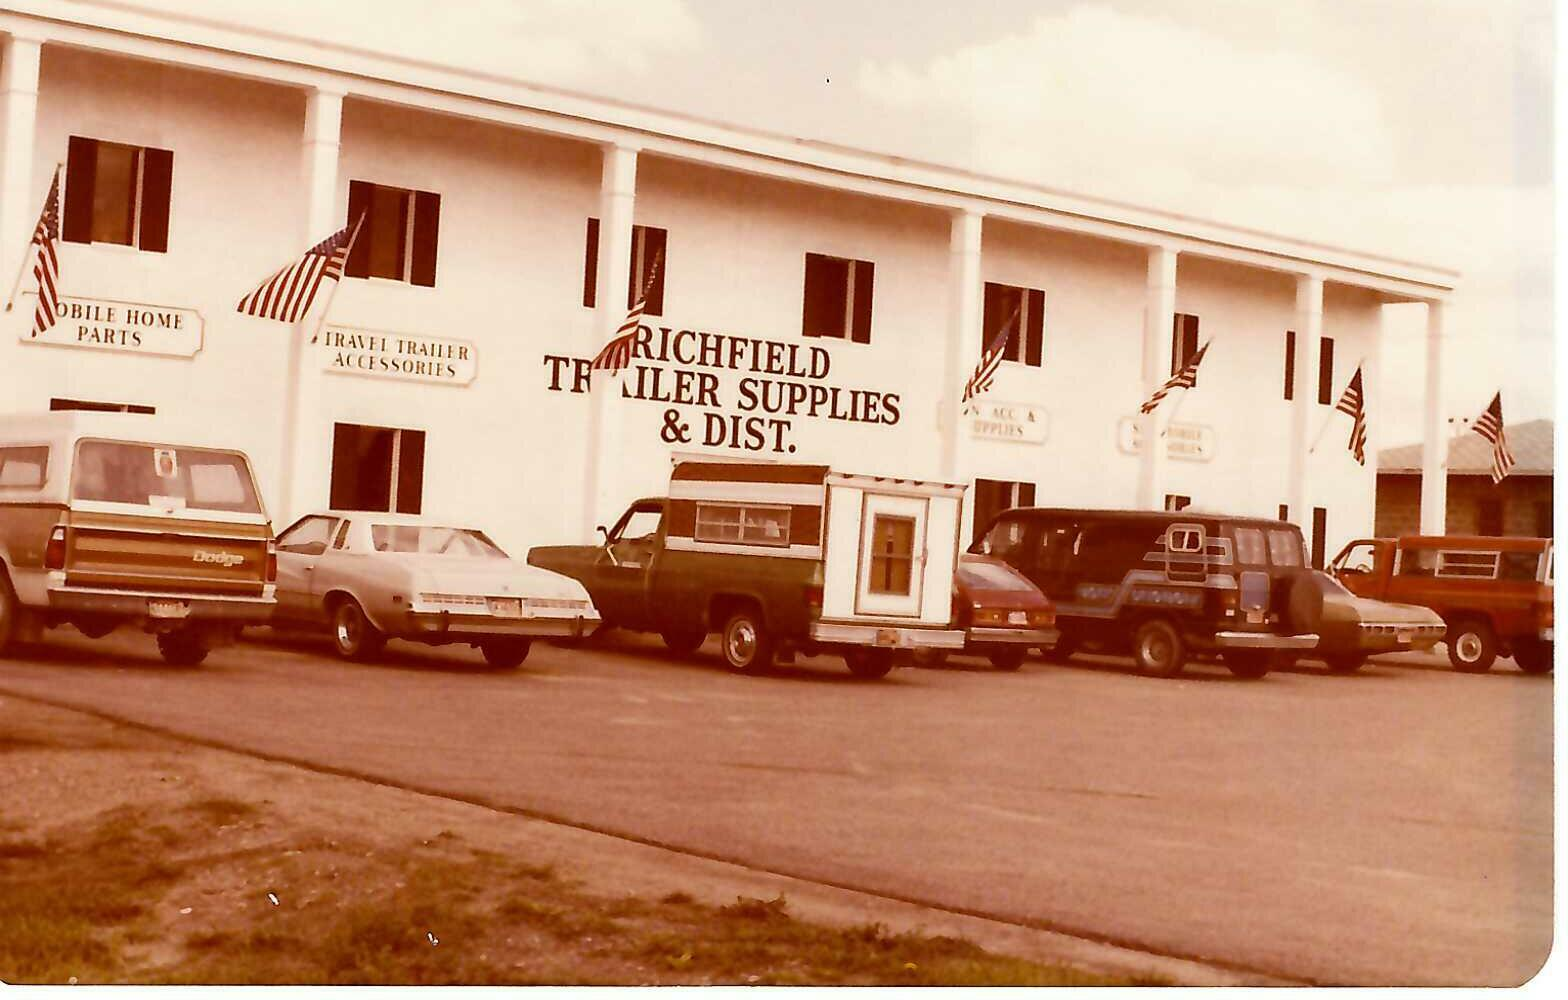
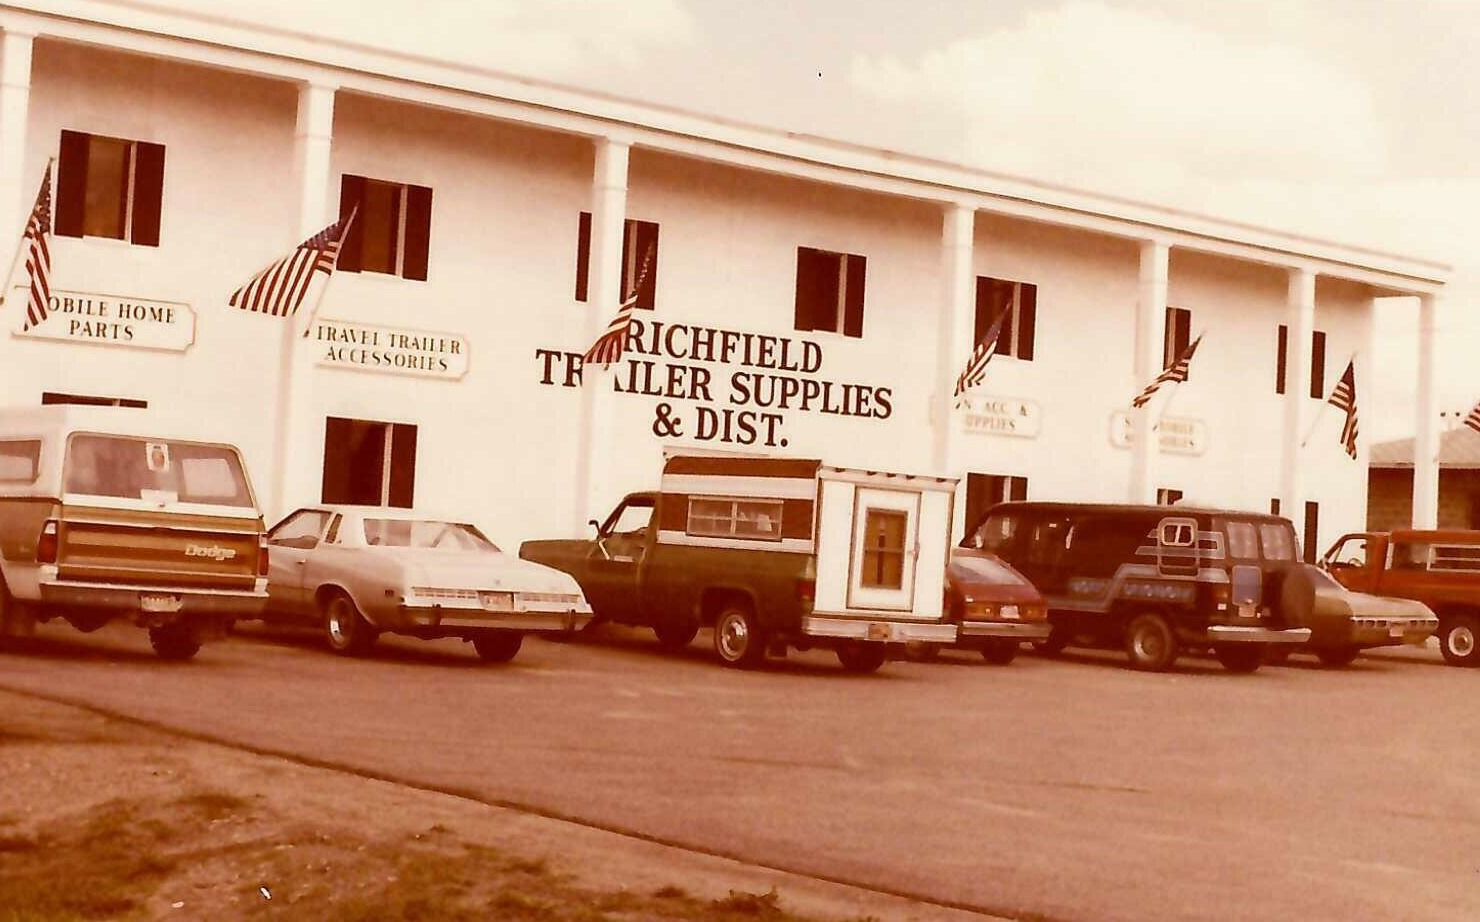
Updates

diff --git a/src/app/page.tsx b/src/app/page.tsx
@@ -2,11 +2,8 @@ import type { Metadata } from "next";
 import Image from "next/image";
 import Link from "next/link";
 import { StoreCard } from "@/components/StoreCard";
-import { JsonLd } from "@/components/JsonLd";
 import { brands } from "@/data/brands";
-import { faqs } from "@/data/faq";
 import { stores } from "@/data/stores";
-import { faqJsonLd } from "@/lib/seo";
 import { site } from "@/lib/site";
 import hero from "@/images/hero.avif";
 
@@ -19,7 +16,6 @@ export const metadata: Metadata = {
 export default function HomePage() {
   return (
     <>
-      <JsonLd data={faqJsonLd()} />
       <section className="relative isolate min-h-[28rem] overflow-hidden bg-navy text-cream md:min-h-[36rem]">
         <Image
           src={hero}
@@ -36,7 +32,9 @@ export default function HomePage() {
         <div className="relative mx-auto flex min-h-[28rem] max-w-6xl items-center px-4 py-16 md:min-h-[36rem] md:px-6 md:py-24">
           <div className="max-w-xl">
             <p className="text-xs font-semibold uppercase tracking-[0.28em] text-brand">
-              Founded in 1955 in Flint, Michigan. 100% Veteran Owned.
+              Founded in 1955 in Flint, Michigan.
+              <br />
+              100% Veteran Owned.
             </p>
             <h1 className="mt-4 font-display text-4xl font-semibold uppercase leading-tight tracking-wide md:text-6xl">
               Trailer parts near
@@ -102,8 +100,7 @@ export default function HomePage() {
             </p>
             <ul className="mt-6 space-y-3 text-ink">
               <li className="border-l-2 border-brand pl-4">In-stock trailer, RV, marine, and towing parts</li>
-              <li className="border-l-2 border-brand pl-4">Special order when the number is not on the shelf</li>
-              <li className="border-l-2 border-brand pl-4">Wholesale accounts — call the store that serves you</li>
+              <li className="border-l-2 border-brand pl-4">Special order when the item is not on the shelf.</li>
             </ul>
           </div>
           <div>
@@ -124,27 +121,6 @@ export default function HomePage() {
               ))}
             </ul>
           </div>
-        </div>
-      </section>
-
-      <section className="border-t border-line bg-paper">
-        <div className="mx-auto max-w-6xl px-4 py-14 md:px-6">
-          <div className="flex items-end justify-between">
-            <h2 className="font-display text-3xl uppercase tracking-wide text-navy">
-              Common questions
-            </h2>
-            <Link href="/faq/" className="text-sm font-medium text-navy underline-offset-2 hover:underline">
-              All FAQs
-            </Link>
-          </div>
-          <dl className="mt-8 grid gap-6 md:grid-cols-2">
-            {faqs.slice(0, 4).map((item) => (
-              <div key={item.question}>
-                <dt className="font-medium text-navy">{item.question}</dt>
-                <dd className="mt-2 text-sm leading-relaxed text-steel">{item.answer}</dd>
-              </div>
-            ))}
-          </dl>
         </div>
       </section>
     </>

diff --git a/src/components/Footer.tsx b/src/components/Footer.tsx
@@ -1,8 +1,13 @@
 import Link from "next/link";
 import { Logo } from "@/components/Logo";
-import { stores, storeHashPath } from "@/data/stores";
+import { stores } from "@/data/stores";
 import { categories } from "@/data/taxonomy";
 import { site } from "@/lib/site";
+
+function categoryHref(slug: string) {
+  if (slug === "propane-gas") return "/propane/";
+  return `/products/#${slug}`;
+}
 
 export function Footer() {
   return (
@@ -13,7 +18,9 @@ export function Footer() {
             <Logo />
           </div>
           <p className="mt-4 max-w-xs text-sm leading-relaxed text-cream/80">
-            Founded in Flint, MI in 1955. 100% Veteran Owned.
+            Founded in Flint, MI in 1955.
+            <br />
+            100% Veteran Owned.
           </p>
           <ul className="mt-5 flex gap-3">
             <li>
@@ -51,9 +58,17 @@ export function Footer() {
           <ul className="mt-3 columns-1 text-sm sm:columns-2">
             {categories.map((category) => (
               <li key={category.slug} className="break-inside-avoid pb-2">
-                <a href={`/products/#${category.slug}`} className="hover:text-copper">
-                  {category.name}
-                </a>
+                <Link href={categoryHref(category.slug)} className="hover:text-copper">
+                  {category.slug === "propane-gas" ? (
+                    <>
+                      Propane Gas
+                      <br />
+                      <span className="pl-2">(LP / LPG)</span>
+                    </>
+                  ) : (
+                    category.name
+                  )}
+                </Link>
               </li>
             ))}
           </ul>
@@ -102,9 +117,9 @@ export function Footer() {
           <ul className="mt-3 space-y-4 text-sm">
             {stores.map((store) => (
               <li key={store.slug}>
-                <a href={storeHashPath(store.slug)} className="font-medium hover:text-copper">
+                <Link href={`/locations/#${store.slug}`} className="font-medium hover:text-copper">
                   {store.name}
-                </a>
+                </Link>
                 <p className="text-cream/70">
                   {store.street}
                   <br />

diff --git a/src/app/propane/page.tsx b/src/app/propane/page.tsx
@@ -1,12 +1,10 @@
 import type { Metadata } from "next";
-import Link from "next/link";
 import { PageHero } from "@/components/PageHero";
-import { stores } from "@/data/stores";
 
 export const metadata: Metadata = {
   title: "Propane",
   description:
-    "LP cylinder refills at Richfield Trailer Supply. Call Flint, Grand Rapids, or Traverse City for hours and tank sizes.",
+    "LP cylinder refills at Richfield Trailer Supply stores in Flint, Grand Rapids, and Traverse City.",
   alternates: { canonical: "/propane/" },
 };
 
@@ -16,26 +14,7 @@ export default function PropanePage() {
       <PageHero title="Propane" />
       <div className="mx-auto max-w-3xl px-4 py-12 md:px-6">
         <p className="text-lg leading-relaxed text-ink">
-          LP cylinder refills are available at our stores. Call the location
-          closest to you to confirm hours and accepted tank sizes.
-        </p>
-        <ul className="mt-8 space-y-3">
-          {stores.map((store) => (
-            <li key={store.slug}>
-              <a
-                href={`tel:${store.phoneTel}`}
-                className="font-display text-lg uppercase tracking-wide text-navy hover:text-copper-dark"
-              >
-                {store.name}
-              </a>
-              <span className="ml-2 text-steel">{store.phone}</span>
-            </li>
-          ))}
-        </ul>
-        <p className="mt-8 text-steel">
-          <Link href="/locations/" className="text-navy underline-offset-2 hover:underline">
-            Store hours and directions
-          </Link>
+          LP cylinder refills are available at our stores.
         </p>
       </div>
     </>

diff --git a/src/app/about/page.tsx b/src/app/about/page.tsx
@@ -15,7 +15,7 @@ export default function AboutPage() {
     <>
       <PageHero title="About Richfield Trailer Supply" />
       <article className="mx-auto max-w-3xl px-4 py-12 md:px-6">
-        <figure className="overflow-hidden rounded-sm border border-line">
+        <figure className="overflow-hidden border border-line">
           <Image
             src={flint1970s}
             alt="Richfield Trailer Supplies & Dist. storefront in Flint in the 1970s"
@@ -35,7 +35,7 @@ export default function AboutPage() {
           across the street from our original location, still on Richfield Road
           after more than 70 years!
         </p>
-        <p className="mt-4 leading-relaxed text-steel">
+        <p className="mt-4 text-lg leading-relaxed text-ink">
           In the 1980’s, the company added retail stores in Traverse City and Grand
           Rapids. In its history, the company sold snowmobile parts, was an RV
           dealer, and has carried various brands of parts and accessories that have

diff --git a/src/components/StoreCallout.tsx b/src/components/StoreCallout.tsx
@@ -1,4 +1,5 @@
-import { stores, storeHashPath } from "@/data/stores";
+import Link from "next/link";
+import { stores } from "@/data/stores";
 
 export function StoreCallout({
   heading = "Call for stock and pricing",
@@ -27,12 +28,12 @@ export function StoreCallout({
               <span className="text-copper-dark">{store.phone}</span>
               <span className="mt-1 text-sm text-steel">{store.hours.weekday}</span>
             </a>
-            <a
-              href={storeHashPath(store.slug)}
+            <Link
+              href={`/locations/#${store.slug}`}
               className="mt-1 inline-block text-sm text-navy underline-offset-2 hover:underline"
             >
               Store details
-            </a>
+            </Link>
           </li>
         ))}
       </ul>

diff --git a/src/app/products/page.tsx b/src/app/products/page.tsx
@@ -21,7 +21,15 @@ export default function ProductsPage() {
           {categories.map((category) => (
             <section key={category.slug} id={category.slug} className="scroll-mt-28">
               <h2 className="font-display text-xl font-semibold uppercase tracking-wide text-navy">
-                {category.name}
+                {category.slug === "propane-gas" ? (
+                  <>
+                    Propane Gas
+                    <br />
+                    <span className="pl-3 font-semibold">(LP / LPG)</span>
+                  </>
+                ) : (
+                  category.name
+                )}
               </h2>
               <ul className="mt-3 space-y-1.5 text-steel">
                 {category.subcategories.map((sub) => (

diff --git a/src/components/Header.tsx b/src/components/Header.tsx
@@ -21,7 +21,11 @@ export function Header() {
     <header className="sticky top-0 z-50">
       <div className="bg-navy-deep text-cream">
         <div className="mx-auto flex max-w-6xl flex-wrap items-center justify-between gap-2 px-4 py-1.5 text-xs tracking-wide md:px-6">
-          <p className="text-copper">Founded in Flint, MI in 1955. 100% Veteran Owned.</p>
+          <p className="text-copper">
+            Founded in Flint, MI in 1955.
+            <br />
+            100% Veteran Owned.
+          </p>
           <ul className="hidden items-center gap-4 md:flex">
             {stores.map((store) => (
               <li key={store.slug}>

diff --git a/src/components/StoreCard.tsx b/src/components/StoreCard.tsx
@@ -1,5 +1,5 @@
+import Link from "next/link";
 import type { Store } from "@/data/stores";
-import { storeHashPath } from "@/data/stores";
 
 export function StoreCard({ store }: { store: Store }) {
   return (
@@ -31,12 +31,12 @@ export function StoreCard({ store }: { store: Store }) {
           Email
         </a>
       </div>
-      <a
-        href={storeHashPath(store.slug)}
+      <Link
+        href={`/locations/#${store.slug}`}
         className="mt-4 text-sm font-medium text-navy underline-offset-2 hover:underline"
       >
         Hours, map, and directions →
-      </a>
+      </Link>
     </article>
   );
 }

diff --git a/src/data/brands.ts b/src/data/brands.ts
@@ -1,22 +1,26 @@
 export const brands = [
-  "Dexter",
-  "Lippert",
   "AL-KO",
-  "Hayes",
-  "UFP",
+  "Anderson",
   "B&W",
-  "Weigh Safe",
-  "Reese",
-  "Draw-Tite",
-  "Tekonsha",
-  "Hopkins",
-  "Peterson",
-  "Optronics",
-  "Grote",
-  "Maxxis",
-  "Carlstar",
-  "Goodyear",
-  "Kenda",
   "Bio-Kleen",
-  "Atwood",
+  "Buyers",
+  "Camco",
+  "Curt",
+  "Dexter",
+  "Dometic",
+  "Gen-Y",
+  "Interstate Batteries",
+  "Kenda",
+  "LaVanture",
+  "Lippert",
+  "Optronics",
+  "Peterson",
+  "Provider",
+  "PTC",
+  "Ram",
+  "SureTrac",
+  "TRP",
+  "UFP",
+  "Valtarra",
+  "Weigh Safe",
 ];

diff --git a/src/app/faq/page.tsx b/src/app/faq/page.tsx
@@ -16,15 +16,7 @@ export default function FaqPage() {
   return (
     <>
       <JsonLd data={faqJsonLd()} />
-      <PageHero
-        title={
-          <>
-            Questions we hear
-            <br />
-            at the Parts Counter.
-          </>
-        }
-      />
+      <PageHero title="Questions we hear at the Parts Counter" />
       <div className="mx-auto max-w-3xl px-4 py-12 md:px-6">
         <dl className="space-y-8">
           {faqs.map((item) => (

diff --git a/src/app/locations/page.tsx b/src/app/locations/page.tsx
@@ -30,10 +30,7 @@ export default function LocationsPage() {
           })),
         }}
       />
-      <PageHero
-        title="Locations"
-        description="Experienced Parts Specialists are available to get you the right part the first time. Visit, call, or email us."
-      />
+      <PageHero title="Locations" />
       <div className="mx-auto max-w-6xl px-4 py-12 md:px-6">
         <MichiganMap />
         <div className="mt-4">

diff --git a/src/data/taxonomy.ts b/src/data/taxonomy.ts
@@ -270,7 +270,7 @@ const defs: CategoryDef[] = [
   },
   {
     slug: "propane-gas",
-    name: "Propane Gas (LP / LPG)",
+    name: "Propane Gas",
     summary: "LP tanks, regulators, mounting, gas lights, and cylinder refills.",
     seoTitle: "RV Propane Tanks, Regulators & LP Refills in Michigan",
     description:
